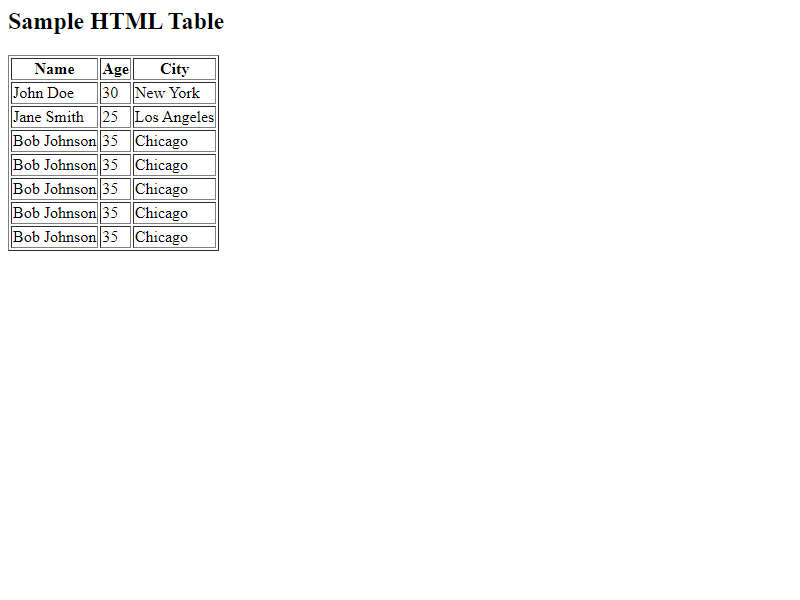
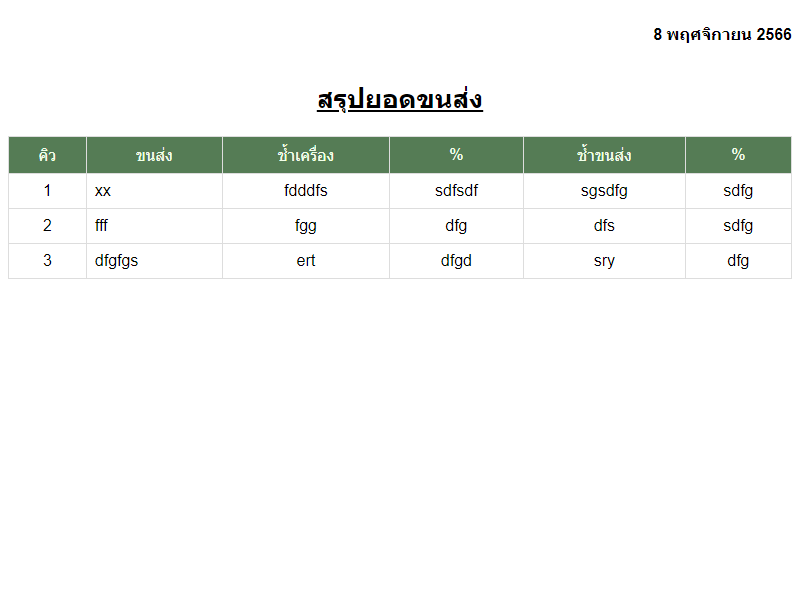
Fixed cors

diff --git a/src/utilities/image_gen/templates/form_summary_01.js b/src/utilities/image_gen/templates/form_summary_01.js
@@ -6,7 +6,7 @@ const HTML_FORM = `<html>
                         <h2>Sample HTML Table</h2>
                         <table border="1">
                             <tr>
-                            <th>Name</th>
+                            <th>คิว</th>
                             <th>Age</th>
                             <th>City</th>
                             </tr>
@@ -48,6 +48,106 @@ const HTML_FORM = `<html>
                         </table>
                      </body>
                     </html>`;
+const getHtmlFormByData = (input) => {
+  const headers = ["คิว", "ขนส่ง", "ช้ำเครื่อง", "%", "ช้ำขนส่ง", "%"];
+  let header_html = getHeaderRow(headers);
+  let content_html = getBodyRow(input);
+  let today = new Date().toLocaleDateString("th-TH", {
+    year: "numeric",
+    month: "long",
+    day: "numeric",
+  });
+
+  let html_form = getHTMLForm(today, header_html, content_html);
+  return html_form;
+};
+const getHeaderRow = (headers) => {
+  let col_datas = "";
+  for (let head of headers) {
+    col_datas += "<th>" + head + "</th>";
+  }
+  return `<tr>${col_datas}</tr>`;
+};
+const getBodyRow = (bodys) => {
+  let col_datas = "";
+  for (let body of bodys) {
+    col_datas += `<tr>
+                    <td>${body.q}</td>
+                    <td>${body.deliver}</td>
+                    <td>${body.mac_lost}</td>
+                    <td>${body.mac_lost_per}</td>
+                    <td>${body.del_lost}</td>
+                    <td>${body.del_lost_per}</td>
+                  </tr>`;
+  }
+  return col_datas;
+};
+const getHTMLForm = (today, header_html, content_html) => {
+  let html = `<!DOCTYPE html>
+                <html lang="en">
+                <head>
+                    <meta charset="UTF-8">
+                    <meta name="viewport" content="width=device-width, initial-scale=1.0">
+                    <title>Deliver Summary</title>
+                    <style>
+                    html {
+                        font-family: Arial, Helvetica, sans-serif
+                    }
+            
+                    .date_container {
+                        display: flex;
+                        justify-content: flex-end;
+                        font-weight: bold;
+                    }
+            
+                    .title_container {
+                        display: flex;
+                        justify-content: center;
+                    }
+            
+                    .title_container h2 {
+                        text-decoration: underline;
+                        font-size: 26px;
+                    }
+            
+                    table {
+                        width: 100%;
+                        border-collapse: collapse;
+                    }
+            
+                    table th, td{
+                        border: 1px solid #ddd;
+                        padding: 8px;
+                        text-align: center;
+                    }
+                    table th {
+                        background-color: #557C55;
+                        color: #F2FFE9;
+                        font-weight: 400;
+                    }
+                    tr td:nth-child(2) {
+                        text-align: start;
+                    }
+                    </style>
+                </head>
+
+                <body>
+                    <div class="date_container">
+                        <p>${today}</p>
+                    </div>
+                    <div class="title_container">
+                        <h2>สรุปยอดขนส่ง</h2>
+                    </div>
+                    <table border="1">
+                        ${header_html}
+                        ${content_html}
+                    </table>
+                </body>
+                </html>`;
+
+  return html;
+};
 module.exports = {
   HTML_FORM,
+  getHtmlFormByData,
 };

diff --git a/src/app.js b/src/app.js
@@ -5,14 +5,23 @@ const { generatePngByHtml } = require("./utilities/image_gen/GenerateImage");
 
 const { sendLineNotify } = require("./utilities/line/LineUtil");
 const { ResponseFailed } = require("./response_handling/error_handling/Failed");
-const { ResponseSuccess } = require("./response_handling/success_handling/Success");
+const {
+  ResponseSuccess,
+} = require("./response_handling/success_handling/Success");
 const { FAILED } = require("./constant/ResponseStatus");
 
 const app = express();
 const PORT = 8000;
 
 app.use(express.json());
-app.use(cors());
+app.use(
+  cors({
+    credentials: true,
+    methods: ["GET", "POST", "PUT", "PATCH", "DELETE", "OPTIONS"],
+    origin: true,
+    // origin: '*'
+  })
+);
 
 app.get("/test", (req, res) => {
   res.send(ResponseSuccess("it success"));
@@ -25,7 +34,10 @@ app.post("/v1/send-line-image", async (req, res) => {
       "../src/assets/images/summary.png"
     );
 
-    let gen_image = await generatePngByHtml({}, image_path);
+    let input_html = req.body.input_html;
+    if (!input_html) throw "Please input data!";
+
+    let gen_image = await generatePngByHtml(input_html, image_path);
     if (gen_image.status === FAILED) throw gen_image.message;
 
     let send_line = await sendLineNotify({

diff --git a/src/utilities/image_gen/GenerateImage.js b/src/utilities/image_gen/GenerateImage.js
@@ -1,7 +1,7 @@
 const puppeteer = require("puppeteer");
 const puppeteerCore = require("puppeteer-core");
 const fs = require("fs");
-const { HTML_FORM } = require("./templates/form_summary_01");
+const { HTML_FORM, getHtmlFormByData } = require("./templates/form_summary_01");
 const {
   ResponseFailed,
 } = require("../../response_handling/error_handling/Failed");
@@ -15,12 +15,15 @@ const generatePngByHtml = (html_data, file_dest) => {
   //file_dest = "./images/output.png"
   try {
     return new Promise(async (resolve) => {
+      let html_form =  getHtmlFormByData(html_data);
+      console.log("🚀 ~ file: GenerateImage.js:19 ~ returnnewPromise ~ html_form:", html_form)
+
       const browser = await puppeteer.launch({
         headless: true,
         args: ["--no-sandbox"],
       });
       const page = await browser.newPage();
-      await page.setContent(HTML_FORM);
+      await page.setContent(html_form);
 
       // Capture a screenshot
       const screenshot = await page.screenshot({ encoding: "base64" });

diff --git a/src/utilities/line/LineUtil.js b/src/utilities/line/LineUtil.js
@@ -20,7 +20,6 @@ const sendLineNotify = ({
 }) => {
   try {
     return new Promise((resolve) => {
-      console.log("🚀 ~ file: LineUtil.js:13 ~ dotenv path :: ", path.resolve(__dirname, "../../../.env"))
       let formData = new FormData();
 
       if (imageFilePath) {
@@ -41,7 +40,6 @@ const sendLineNotify = ({
         },
         data: formData,
       };
-      console.log("🚀 ~ file: LineUtil.js:42 ~ returnnewPromise ~ config.headers.process.env.LINE_TOKEN:", process.env.LINE_TOKEN)
 
       axios(config)
         .then((res) => {
